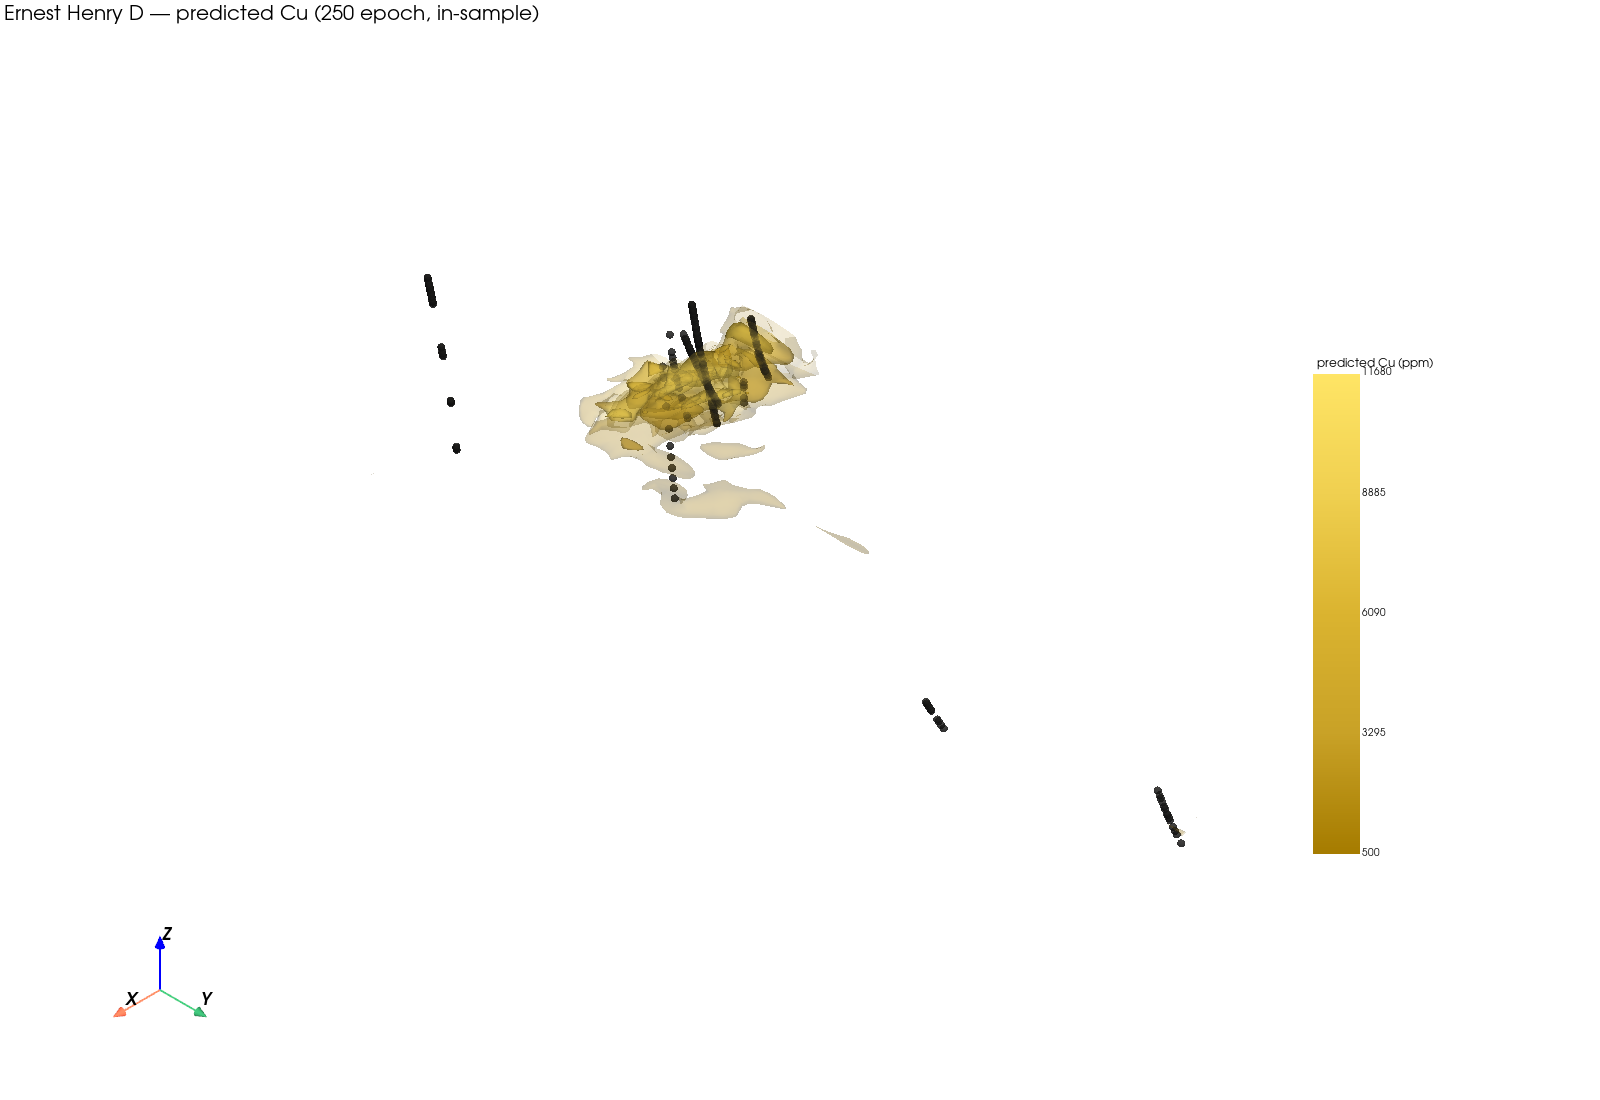
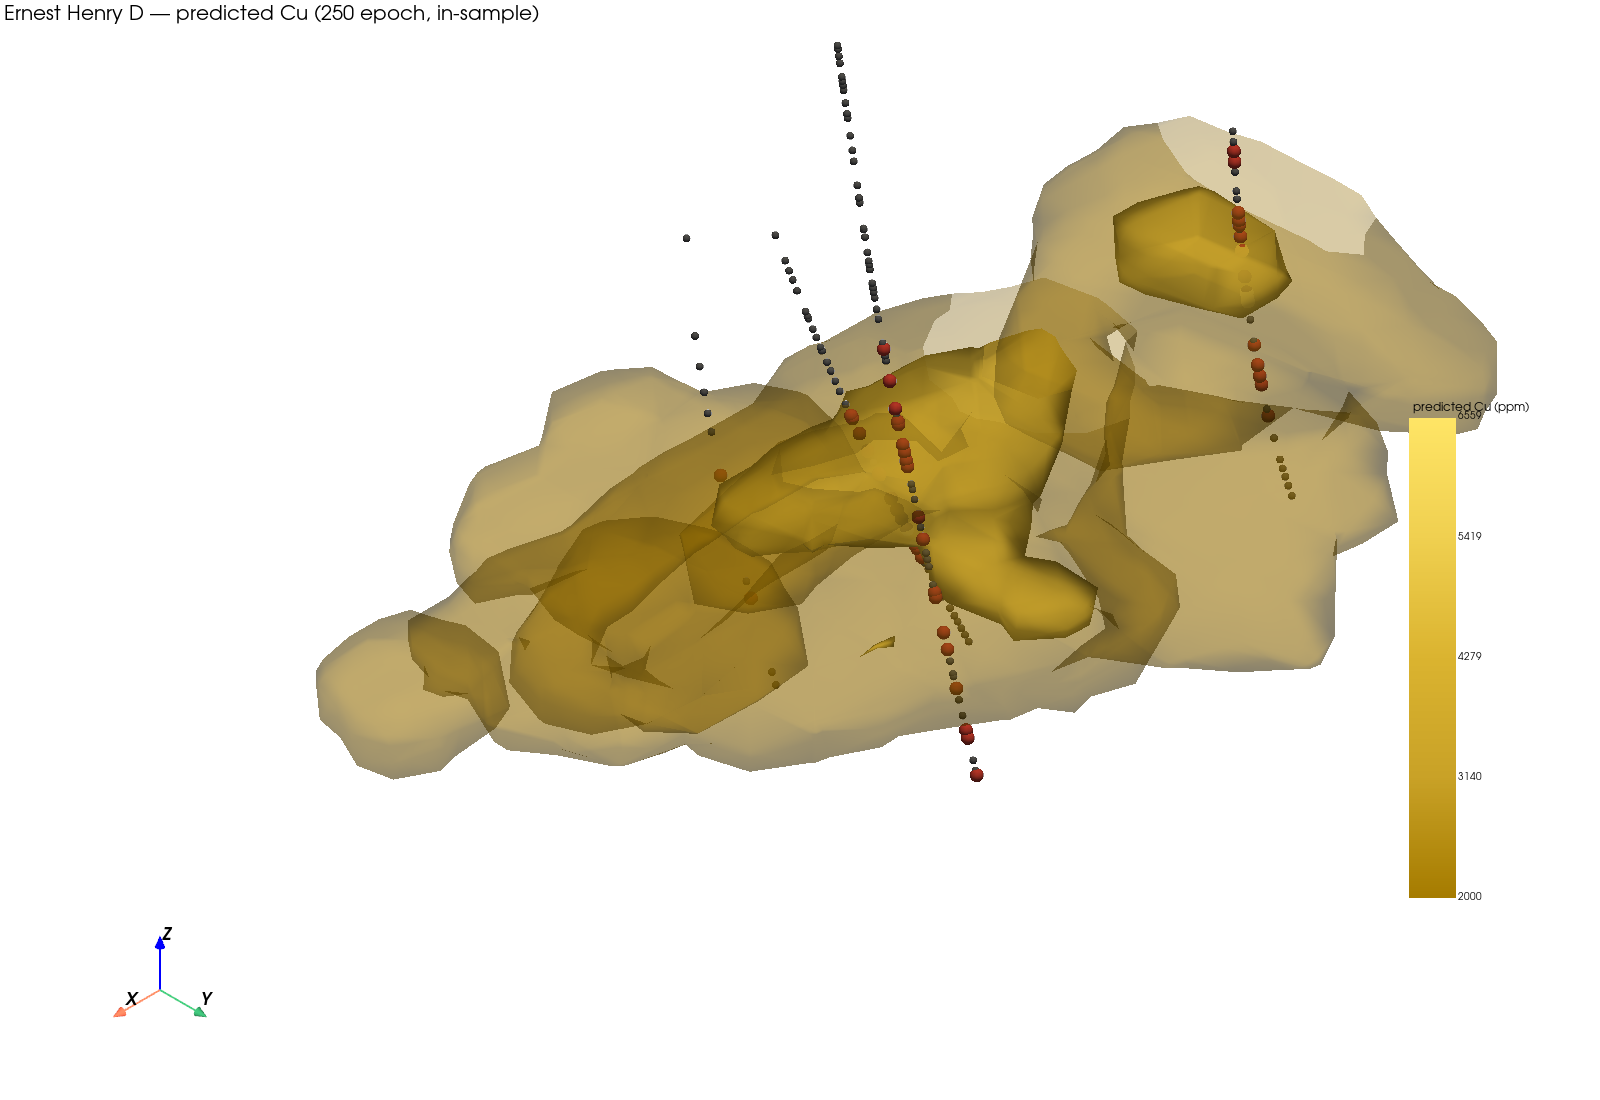
Fix Ernest Henry 3D: cell-centred blocks so sample XYZ sits in the cell.
The old VTS put grade on cell centres; 100 m XY made collars look shifted
by half a block. Crop the camera to the ore, drop hull outliers.

diff --git a/README.md b/README.md
@@ -253,8 +253,11 @@ assay. Grid occupancy on D is 104 / 57,816 = 0.18%. Only 8 cells are
 A 50-epoch work-box health check (`tmp_cloncurry_prior/`) is not a result:
 1000 m cells stacked 347 Cu samples into 48 cells.
 
-Predicted Cu on D, nested 500 / 2,000 / 5,000 ppm shells. Black points are
-the 255 METAL Cu samples. **In-sample** (104 grade-anchor cells); not a
+Predicted Cu on D, nested 2,000 / 5,000 ppm shells on a **cell-centred**
+block model (corners = grid edges, so METAL sample XYZ sits inside the
+block, not half a cell off a centre-point mesh). Red points: assay
+≥ 2,000 ppm; grey: other samples in the same crop. Distant EH outliers
+are omitted from the frame. **In-sample** (104 grade-anchor cells); not a
 hold-out. The predicted field has 96 cells ≥ 5,000 ppm (max 16,003 ppm)
 even though only 8 of those 104 anchors sit at ≥ 5,000 ppm.
 
